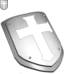
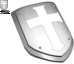
Early implementation of raising the shield.

diff --git a/Clinfinity.c4d/Items.c4d/Weapons.c4d/Shield.c4d/Script.c b/Clinfinity.c4d/Items.c4d/Weapons.c4d/Shield.c4d/Script.c
@@ -7,14 +7,32 @@ protected func Hit() {
 public func IsMeleeWeapon()		{ return true; }
 public func GetWieldDirection()	{ return AVMW_WieldUp; }
 
-public func WieldStart(int wieldDuration) {
-	Message("SHIT WieldStart %d", this, wieldDuration);
+public func HandX() { return 0; }
+public func HandY() { return 0; }
+
+
+public func GetStartAngle(int direction) {
+	if(direction == DIR_Left) return -140;
+	else return 140;
+}
+public func GetCentralAngle(int direction) {
+	if(direction == DIR_Left) {
+		return 50;
+	} else {
+		return -50;
+	}
+}
+
+public func WieldStart(int direction) {
+	SetR(0);
+	SetAction("Shield");
+	SetDir(direction);
 }
 
 public func WieldAbort() {
-	Message("SHIT WieldAbort");
+	SetAction("Idle");
 }
 
 public func WieldEnd() {
-	Message("SHIT WieldEnd");
+	SetAction("Idle");
 }

diff --git a/Clinfinity.c4d/Crew.c4d/MeleeWeapons.c4d/Script.c b/Clinfinity.c4d/Crew.c4d/MeleeWeapons.c4d/Script.c
@@ -54,12 +54,11 @@ private func WieldMeleeWeapon() {
 		var duration = frames * delay;
 
 		startAngle = NormaliseAngle(weapon->GetStartAngle(GetDir()));
-		var endAngle = NormaliseAngle(weapon->GetEndAngle(GetDir()));
-		angularSpeed = (endAngle - startAngle) / duration;
+		angularSpeed = weapon->GetCentralAngle(GetDir()) / duration;
 
 		Wielding();
 
-		weapon->WieldStart(duration);
+		weapon->WieldStart(GetDir());
 	}
 }
 
@@ -106,7 +105,7 @@ private func RemoveMeleeWeaponOverlay() {
 /*	Section: Calls to weapons
 	The functions described in this section are called in the weapon object at the appropriate times. */
 
-public func WieldStart(int wieldDuration) {}
+public func WieldStart(int direction) {}
 
 public func WieldEnd() {
 	CallToWeapon("WieldEnd");

diff --git a/Clinfinity.c4d/Items.c4d/Weapons.c4d/Steamsword.c4d/Script.c b/Clinfinity.c4d/Items.c4d/Weapons.c4d/Steamsword.c4d/Script.c
@@ -16,12 +16,12 @@ public func GetStartAngle(int direction) {
 	if(direction == DIR_Left) return -45;
 	else return 45;
 }
-public func GetEndAngle(int direction) {
-	if(direction == DIR_Left) return -135;
-	else return 135;
+public func GetCentralAngle(int direction) {
+	if(direction == DIR_Left) return -90;
+	else return 90;
 }
 
-public func WieldStart(int wieldDuration) {
+public func WieldStart(int direction) {
 	SetR(0);
 	SetAction("On");
 }
